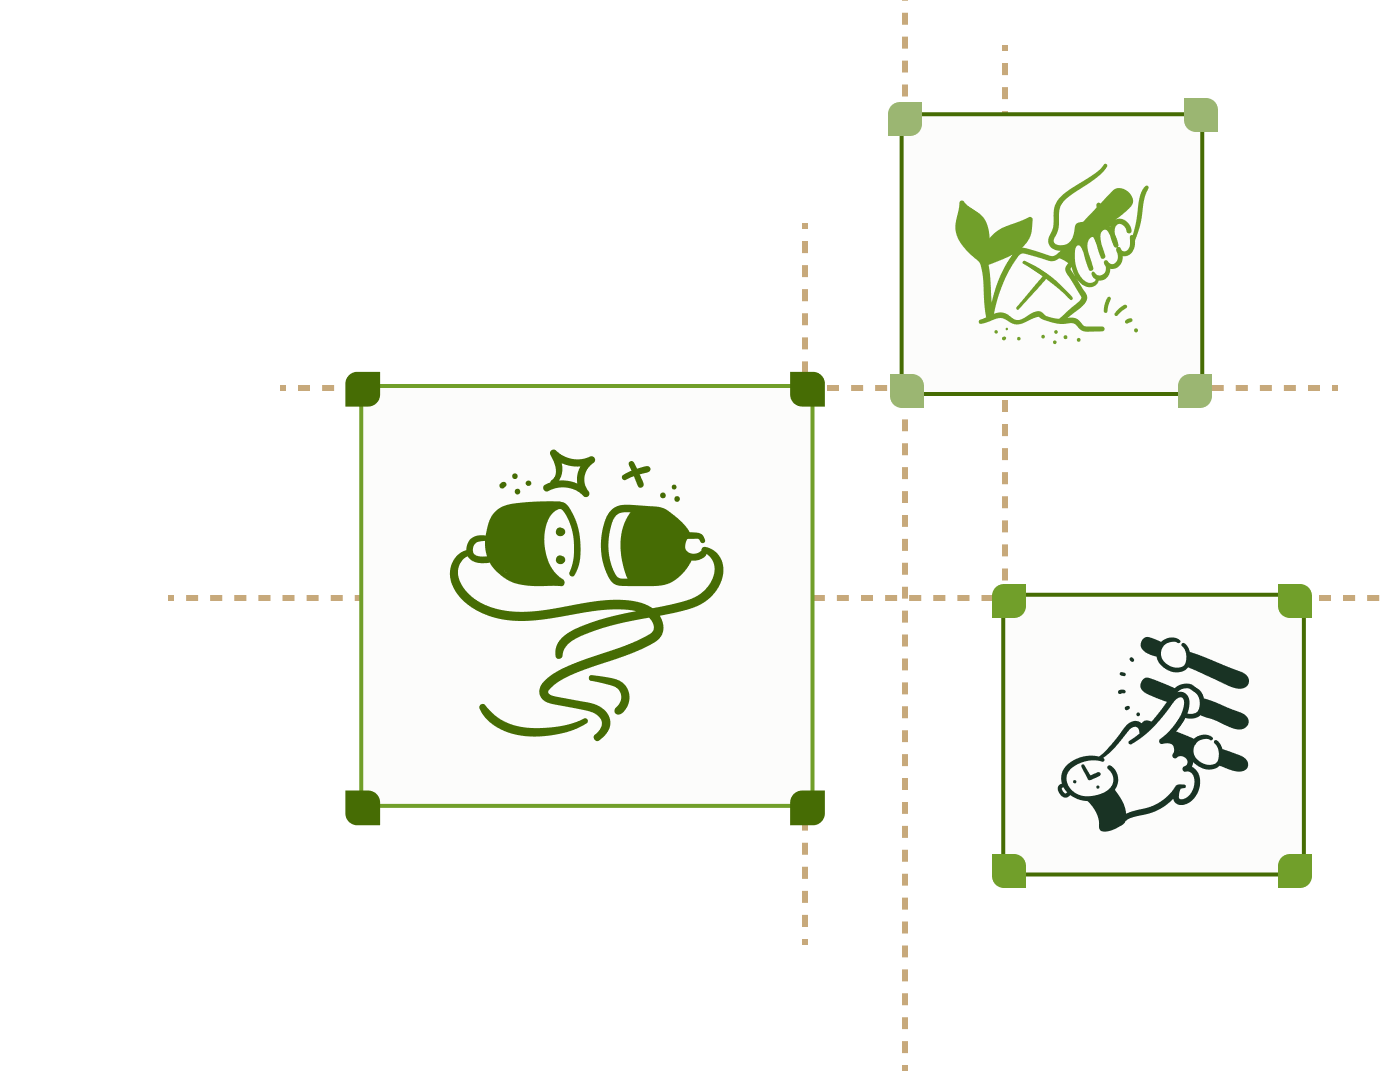
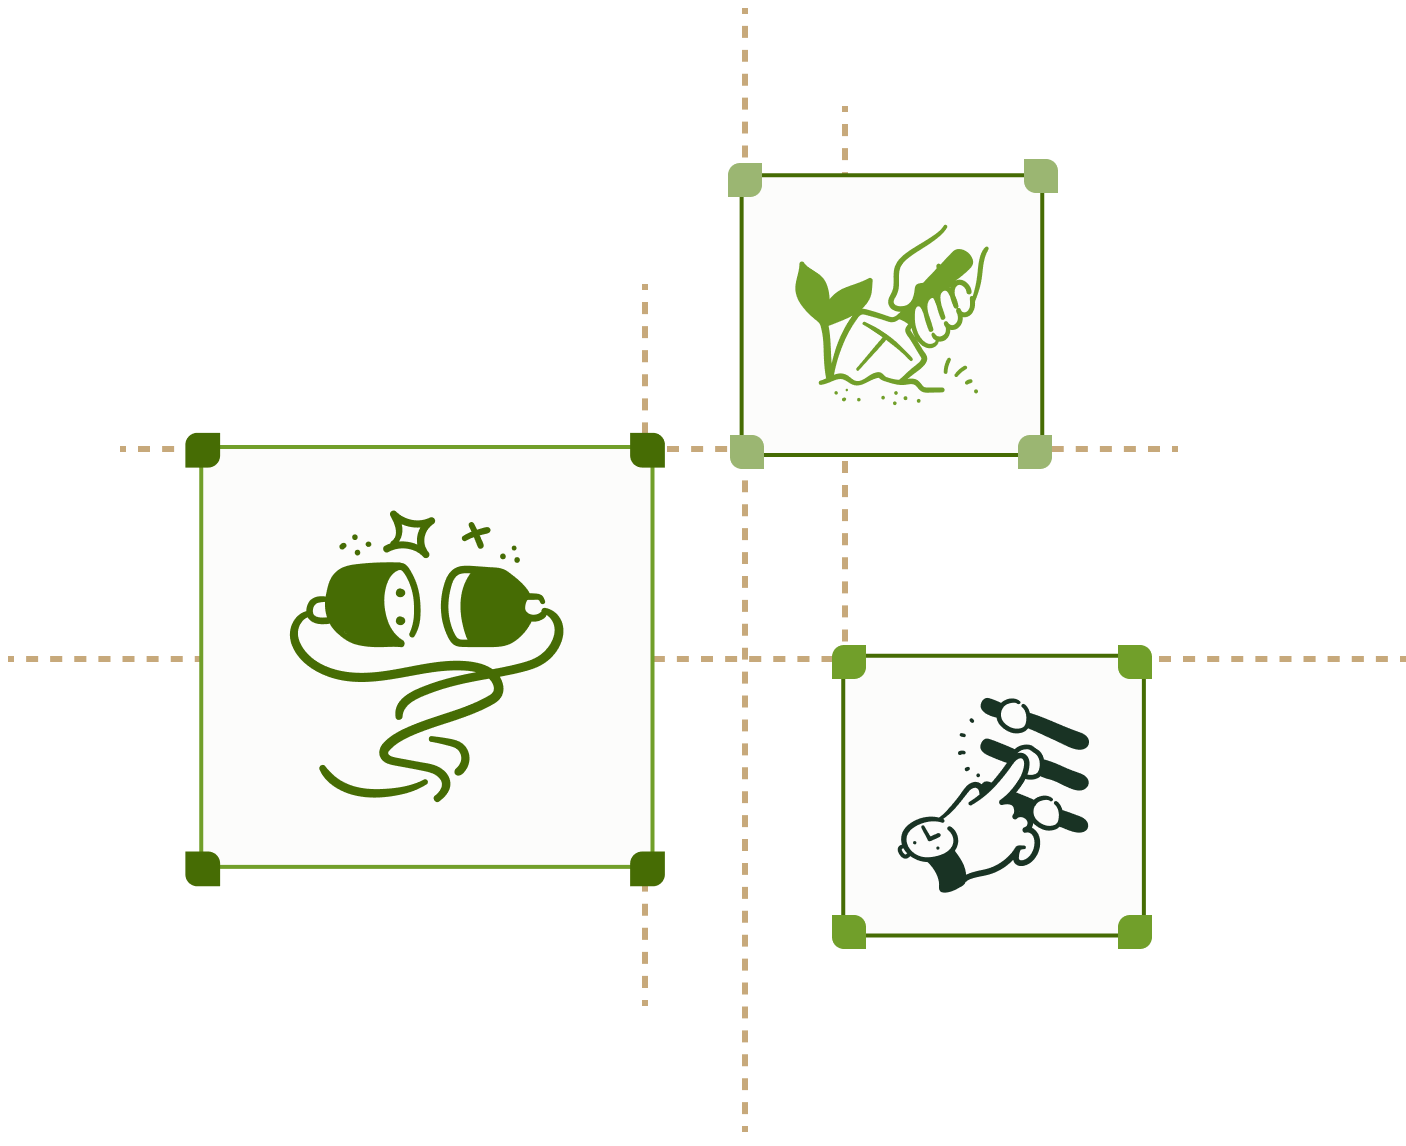
Fix/164 homepage design feedback (#223)
* fix: style section image

* fix: object cover

* fix: resource section spacing

* fix: hero spacing

* fix: image never fully hidden

* fix: capitalization match

* fix: style section consistency

* fix: build resolution

* fix: styling size

* fix: full hero and footer

* fix: fixed height asset

* fix: uswds approach

* fix: preserve desktop experience

* fix: styles section dual break

* fix: tiny screen coverage

* fix: spacing tweaks

* fix: resource inset

diff --git a/src/styles/custom.css b/src/styles/custom.css
@@ -139,9 +139,9 @@ a.site-title {
 }
 
 .main-pane table {
+  display: block;
+  overflow: auto;
   width: 100%;
-  display: table;
-  table-layout: auto;
 }
 
 @media (min-width: 72rem) {
@@ -233,11 +233,48 @@ body:has(.grove-home-section-container) {
   margin: auto;
 }
 
+.grove-styles-text {
+  z-index: 1;
+  background-color: var(--grove-base-100);
+  @media (min-width: 40rem) {
+    min-width: 32rem;
+    max-width: var(--grove-styles-text-width);
+  }
+}
+
+.grove-styles-image {
+  @media (min-width: 40rem) {
+    position: absolute;
+    z-index: 0;
+    top: 0;
+    bottom: 0;
+    right: 0;
+    max-width: 32rem;
+  }
+  img {
+    object-fit: cover;
+    object-position: right;
+  }
+}
 .grove-card-group {
   > *:last-child {
     margin-bottom: 0;
   }
 }
+
+.grove-card-img {
+  height: 8rem;
+  @media (min-width: 40rem) {
+    height: auto;
+  }
+}
+
+.grove-resource-media-block {
+  @media (min-width: 40rem) {
+    flex-direction: row;
+  }
+}
+
 /* need to add into NJWDS */
 
 .text-semibold {
